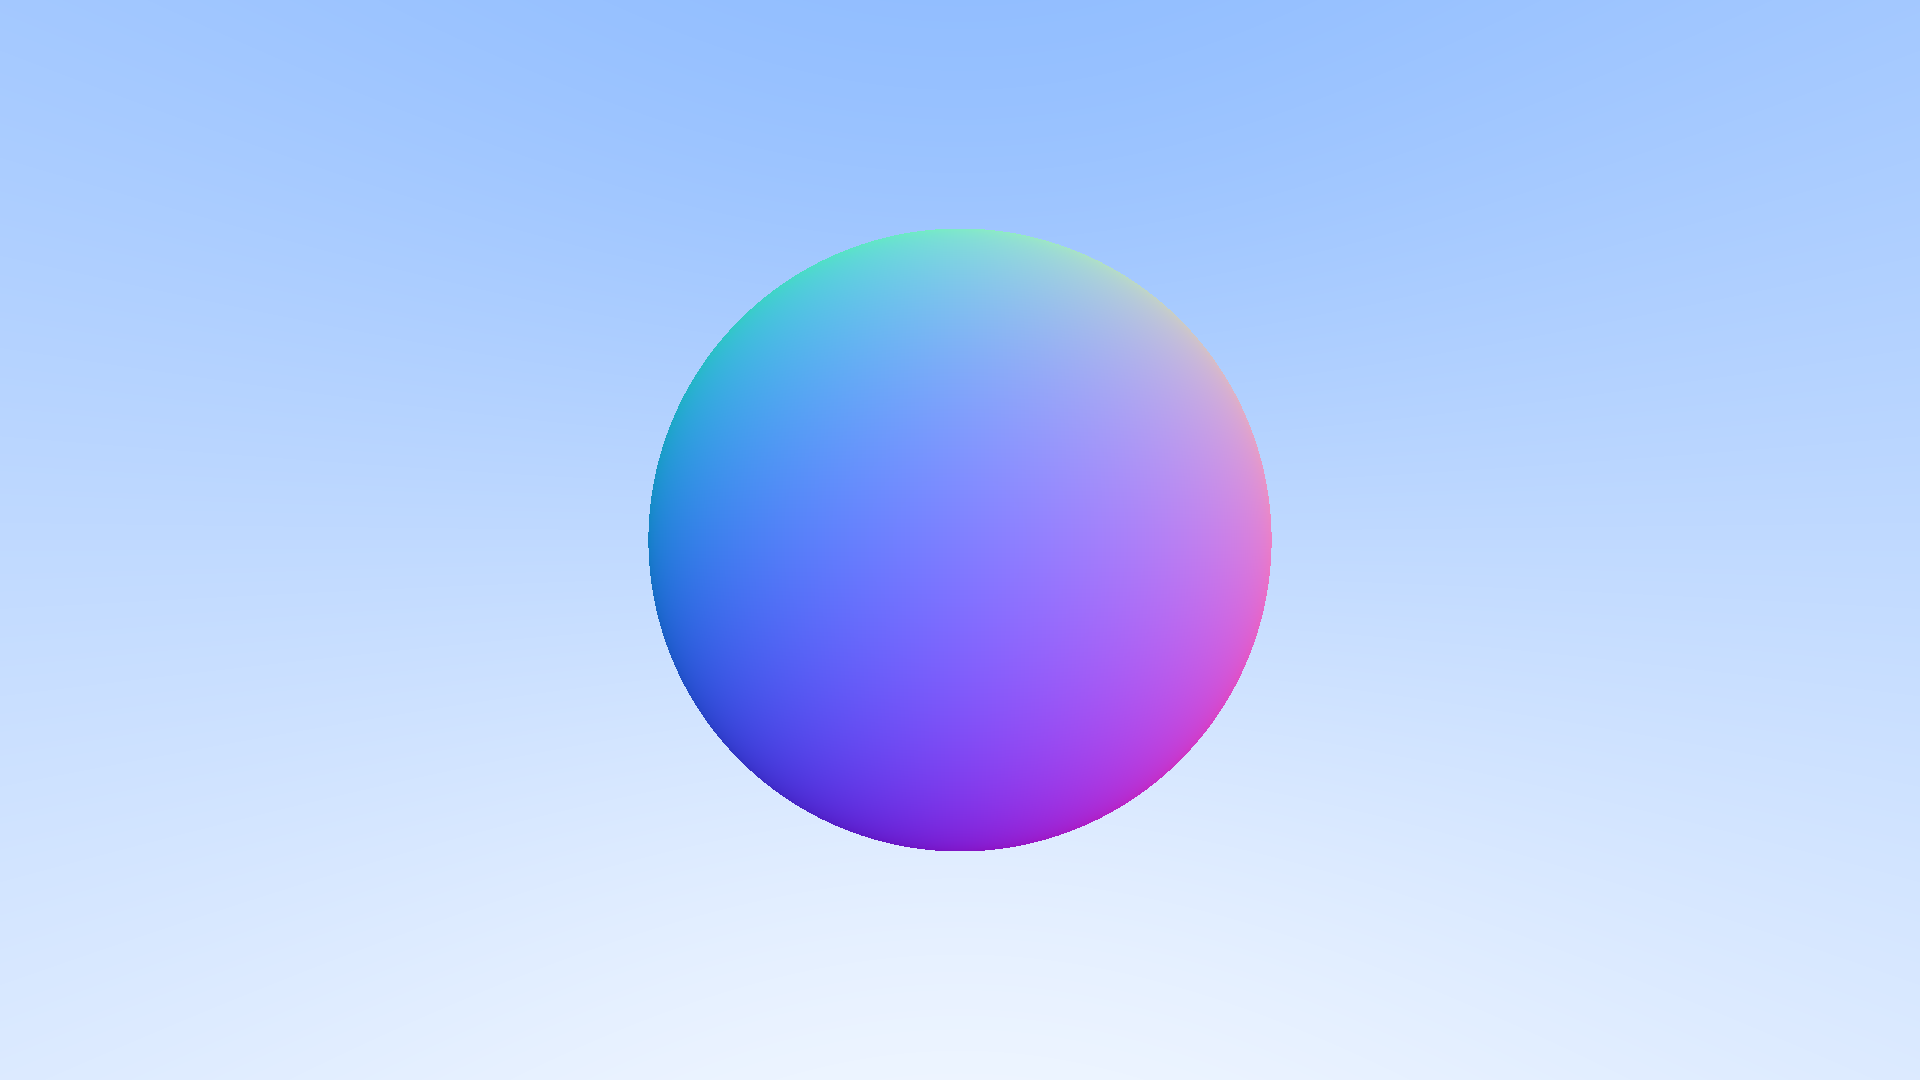
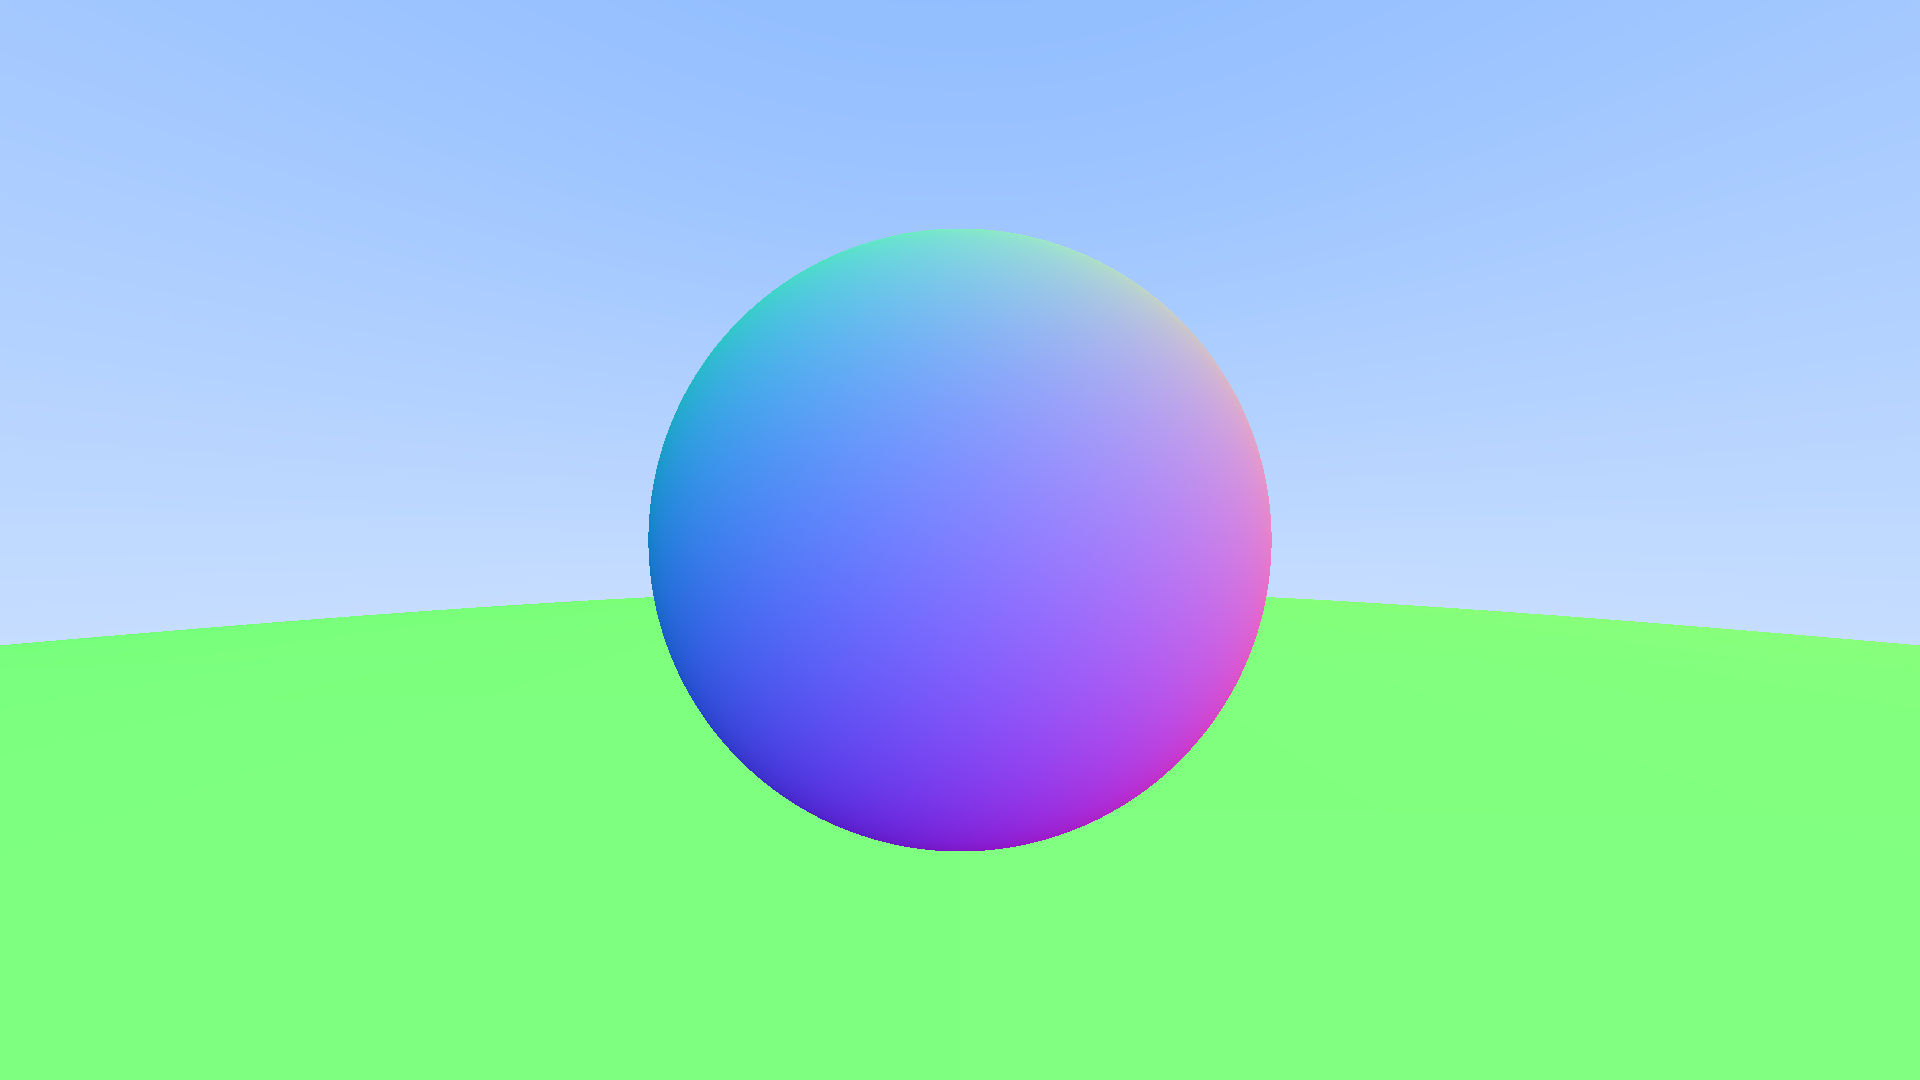
Hittable Objects.

diff --git a/Arnold/Arnold.cpp b/Arnold/Arnold.cpp
@@ -13,37 +13,20 @@
 #include <stb_image_write.h>
 
 #include "Ray.h"
+#include "HittableList.h"
+#include "Sphere.h"
+#include "Utilities.h"
 
-float hit_sphere(const vec3& center, float radius, const Ray& r)
+vec3 ray_color(const Ray& r, const Hittable& world)
 {
-	vec3 oc = r.origin() - center;
-	auto a = length2(r.direction());
-	auto half_b = dot(oc, r.direction());
-	auto c = length2(oc) - radius * radius;
-	auto discriminant = half_b * half_b - a * c;
-
-	if (discriminant < 0)
+	HitRecord rec;
+	if (world.Hit(r, 0, infinity, rec))
 	{
-		return -1.0f;
-	}
-	else
-	{
-		return (-half_b - sqrt(discriminant)) / a;
-	}
-}
-
-vec3 ray_color(const Ray& r)
-{
-	auto t = hit_sphere(vec3(0, 0, -1), 0.5f, r);
-
-	if (t > 0.0f)
-	{
-		vec3 N = normalize(r.at(t) - vec3(0, 0, -1));
-		return 0.5f * (N + 1.0f);
+		return 0.5f * (rec.normal + vec3(1, 1, 1));
 	}
 
 	vec3 unit_direction = normalize(r.direction());
-	t = 0.5f * (unit_direction.y + 1.0f);
+	auto t = 0.5f * (unit_direction.y + 1.0f);
 
 	return (1.0f - t) * vec3(1.0f, 1.0f, 1.0f) + t * vec3(0.5f, 0.7f, 1.0f);
 }
@@ -54,6 +37,11 @@ int main()
 	const auto aspect_ratio = 16.0 / 9.0;
 	const int image_width = 1920;
 	const int image_height = static_cast<int>(image_width / aspect_ratio);
+
+	// World
+	HittableList world;
+	world.Add(make_shared<Sphere>(vec3(0.0f, 0.0f, -1.0f), 0.5f));
+	world.Add(make_shared<Sphere>(vec3(0.0f, -100.5f, -1.0f), 100.0f));
 
 	// Camera
 	auto viewport_height = 2.0;
@@ -79,7 +67,7 @@ int main()
 			auto v = float(j) / (image_height - 1);
 
 			Ray r(origin, lower_left_corner + u * horizontal + v * vertical - origin);
-			vec3 pixel_color = ray_color(r);
+			vec3 pixel_color = ray_color(r, world);
 
 			// write_color function.
 			int ir = static_cast<int>(255.999 * pixel_color.x);

diff --git a/Arnold/Sphere.h b/Arnold/Sphere.h
@@ -1,0 +1,47 @@
+#pragma once
+
+#include <glm/gtx/norm.hpp>
+
+#include "Hittable.h"
+
+class Sphere : public Hittable
+{
+public:
+	Sphere() : center(0), radius(0) {}
+	Sphere(vec3 cen, float r) : center(cen), radius(r) {}
+
+	virtual bool Hit(const Ray& r, double t_min, double t_max, HitRecord& rec) const override
+	{
+		vec3 oc = r.origin() - center;
+		auto a = length2(r.direction());
+		auto half_b = dot(oc, r.direction());
+		auto c = length2(oc) - radius * radius;
+
+		auto discriminant = half_b * half_b - a * c;
+		if (discriminant < 0) return false;
+		auto sqrtd = sqrt(discriminant);
+
+		// Find the nearest root that lies in the acceptable range.
+		auto root = (-half_b - sqrtd) / a;
+		if (root < t_min || t_max < root)
+		{
+			root = (-half_b + sqrtd) / a;
+			if (root < t_min || t_max < root)
+				return false;
+		}
+
+		rec.t = root;
+		rec.p = r.at(rec.t);
+		rec.normal = (rec.p - center) / radius;
+
+		vec3 outward_normal = (rec.p - center) / radius;
+		rec.set_face_normal(r, outward_normal);
+
+		return true;
+	}
+
+private:
+	vec3 center;
+	float radius;
+};
+

diff --git a/Arnold/HittableList.h b/Arnold/HittableList.h
@@ -1,0 +1,42 @@
+#pragma once
+
+#include "Hittable.h"
+
+#include <memory>
+#include <vector>
+
+using std::shared_ptr;
+using std::make_shared;
+
+class HittableList : public Hittable
+{
+public:
+	HittableList() {}
+	HittableList(shared_ptr<Hittable> object) { Add(object); }
+
+	void Clear() { objects.clear(); }
+	void Add(shared_ptr<Hittable> object) { objects.push_back(object); }
+
+	virtual bool Hit(const Ray& r, double t_min, double t_max, HitRecord& rec) const override
+	{
+		HitRecord temp_rec;
+		bool hit_anything = false;
+		auto closest_so_far = t_max;
+
+		for (const auto& object : objects)
+		{
+			if (object->Hit(r, t_min, closest_so_far, temp_rec))
+			{
+				hit_anything = true;
+				closest_so_far = temp_rec.t;
+				rec = temp_rec;
+			}
+		}
+
+		return hit_anything;
+	}
+
+private:
+	std::vector<shared_ptr<Hittable>> objects;
+};
+

diff --git a/Arnold/Utilities.h b/Arnold/Utilities.h
@@ -1,0 +1,29 @@
+#pragma once
+
+#include <cmath>
+#include <limits>
+#include <memory>
+
+
+// Usings
+
+using std::shared_ptr;
+using std::make_shared;
+using std::sqrt;
+
+// Constants
+
+const double infinity = std::numeric_limits<double>::infinity();
+const double PI = 3.1415926535897932385;
+
+// Utility Functions
+
+inline double degrees_to_radians(double degrees)
+{
+	return degrees * PI / 180.0;
+}
+
+// Common Headers
+
+#include "Ray.h"
+#include <glm/glm.hpp>

diff --git a/Arnold/Hittable.h b/Arnold/Hittable.h
@@ -1,0 +1,25 @@
+#pragma once
+
+#include "Ray.h"
+
+struct HitRecord
+{
+	vec3 p;
+	vec3 normal;
+	float t;
+	bool front_face;
+
+	inline void set_face_normal(const Ray& r, const vec3& outward_normal)
+	{
+		front_face = dot(r.direction(), outward_normal) < 0;
+		normal = front_face ? outward_normal : -outward_normal;
+	}
+};
+
+class Hittable
+{
+public:
+	virtual bool Hit(const Ray& r, double t_min, double t_max, HitRecord& rec) const = 0;
+
+};
+
